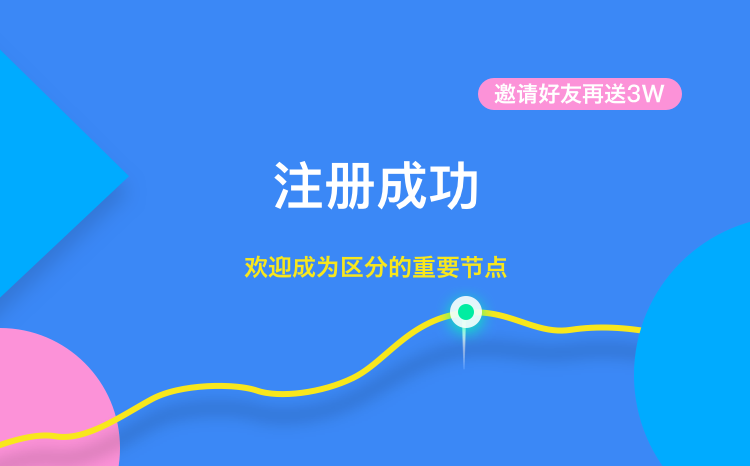
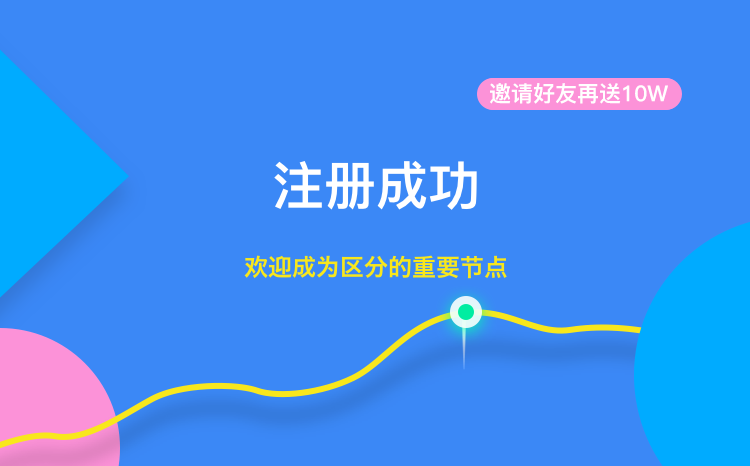
8.10 注册送13w 下载做分享

Changed region(s): [[0.644, 0.1803, 0.8893, 0.2403]]

diff --git a/src/views/user/registerSuccess.vue b/src/views/user/registerSuccess.vue
@@ -186,7 +186,7 @@
 				if(res.code == 0) {
 					// console.log(res.data.url)
 					this.message = res.data.url
-          this.message1 = "注册区分领取6wFIND，注册即送30,000FIND≈¥1500,邀请好友再送30,000FIND。深度了解区块链项目，听听其他投资者的声音，速戳："+this.message;
+          this.message1 = "注册区分领取13wFIND，注册即送30,000FIND,邀请好友再送30,000FIND。深度了解区块链项目，听听其他投资者的声音，速戳："+this.message;
 				}
 			})
 		},

diff --git a/src/views/user/download.vue b/src/views/user/download.vue
@@ -30,9 +30,17 @@
 
 <script>
 	import { MessageBox } from 'mint-ui';
+  import { wechatShare } from '../../assets/js/wxshare'
 	export default {
 		name: 'download',
-
+    mounted(){
+      wechatShare({
+        title: "区分-投资区块链一定要区分",
+        content: "全球首家以分布式评测为核心的区块链投资平台",
+        link: window.location.href,
+        logo: "https://pic.qufen.top/posts20180628204925934317",
+      })
+    },
 		methods: {
 			// instance() {
 			// 	MessageBox({

diff --git a/src/views/user/registerSmp.vue b/src/views/user/registerSmp.vue
@@ -217,7 +217,7 @@
 			this.draw1()
 
 			wechatShare({
-				title: "做区分创世节点，领取6w注册邀请糖果包",
+				title: "做区分创世节点，领取13w注册邀请糖果包",
 				content: "注册即送3w，每邀请一个好友再送1500 FIND。深度了解区块链项目，听听其他投资者的声音",
 				link: window.location.href,
 				logo: "https://pic.qufen.top/posts20180628204925934317",
